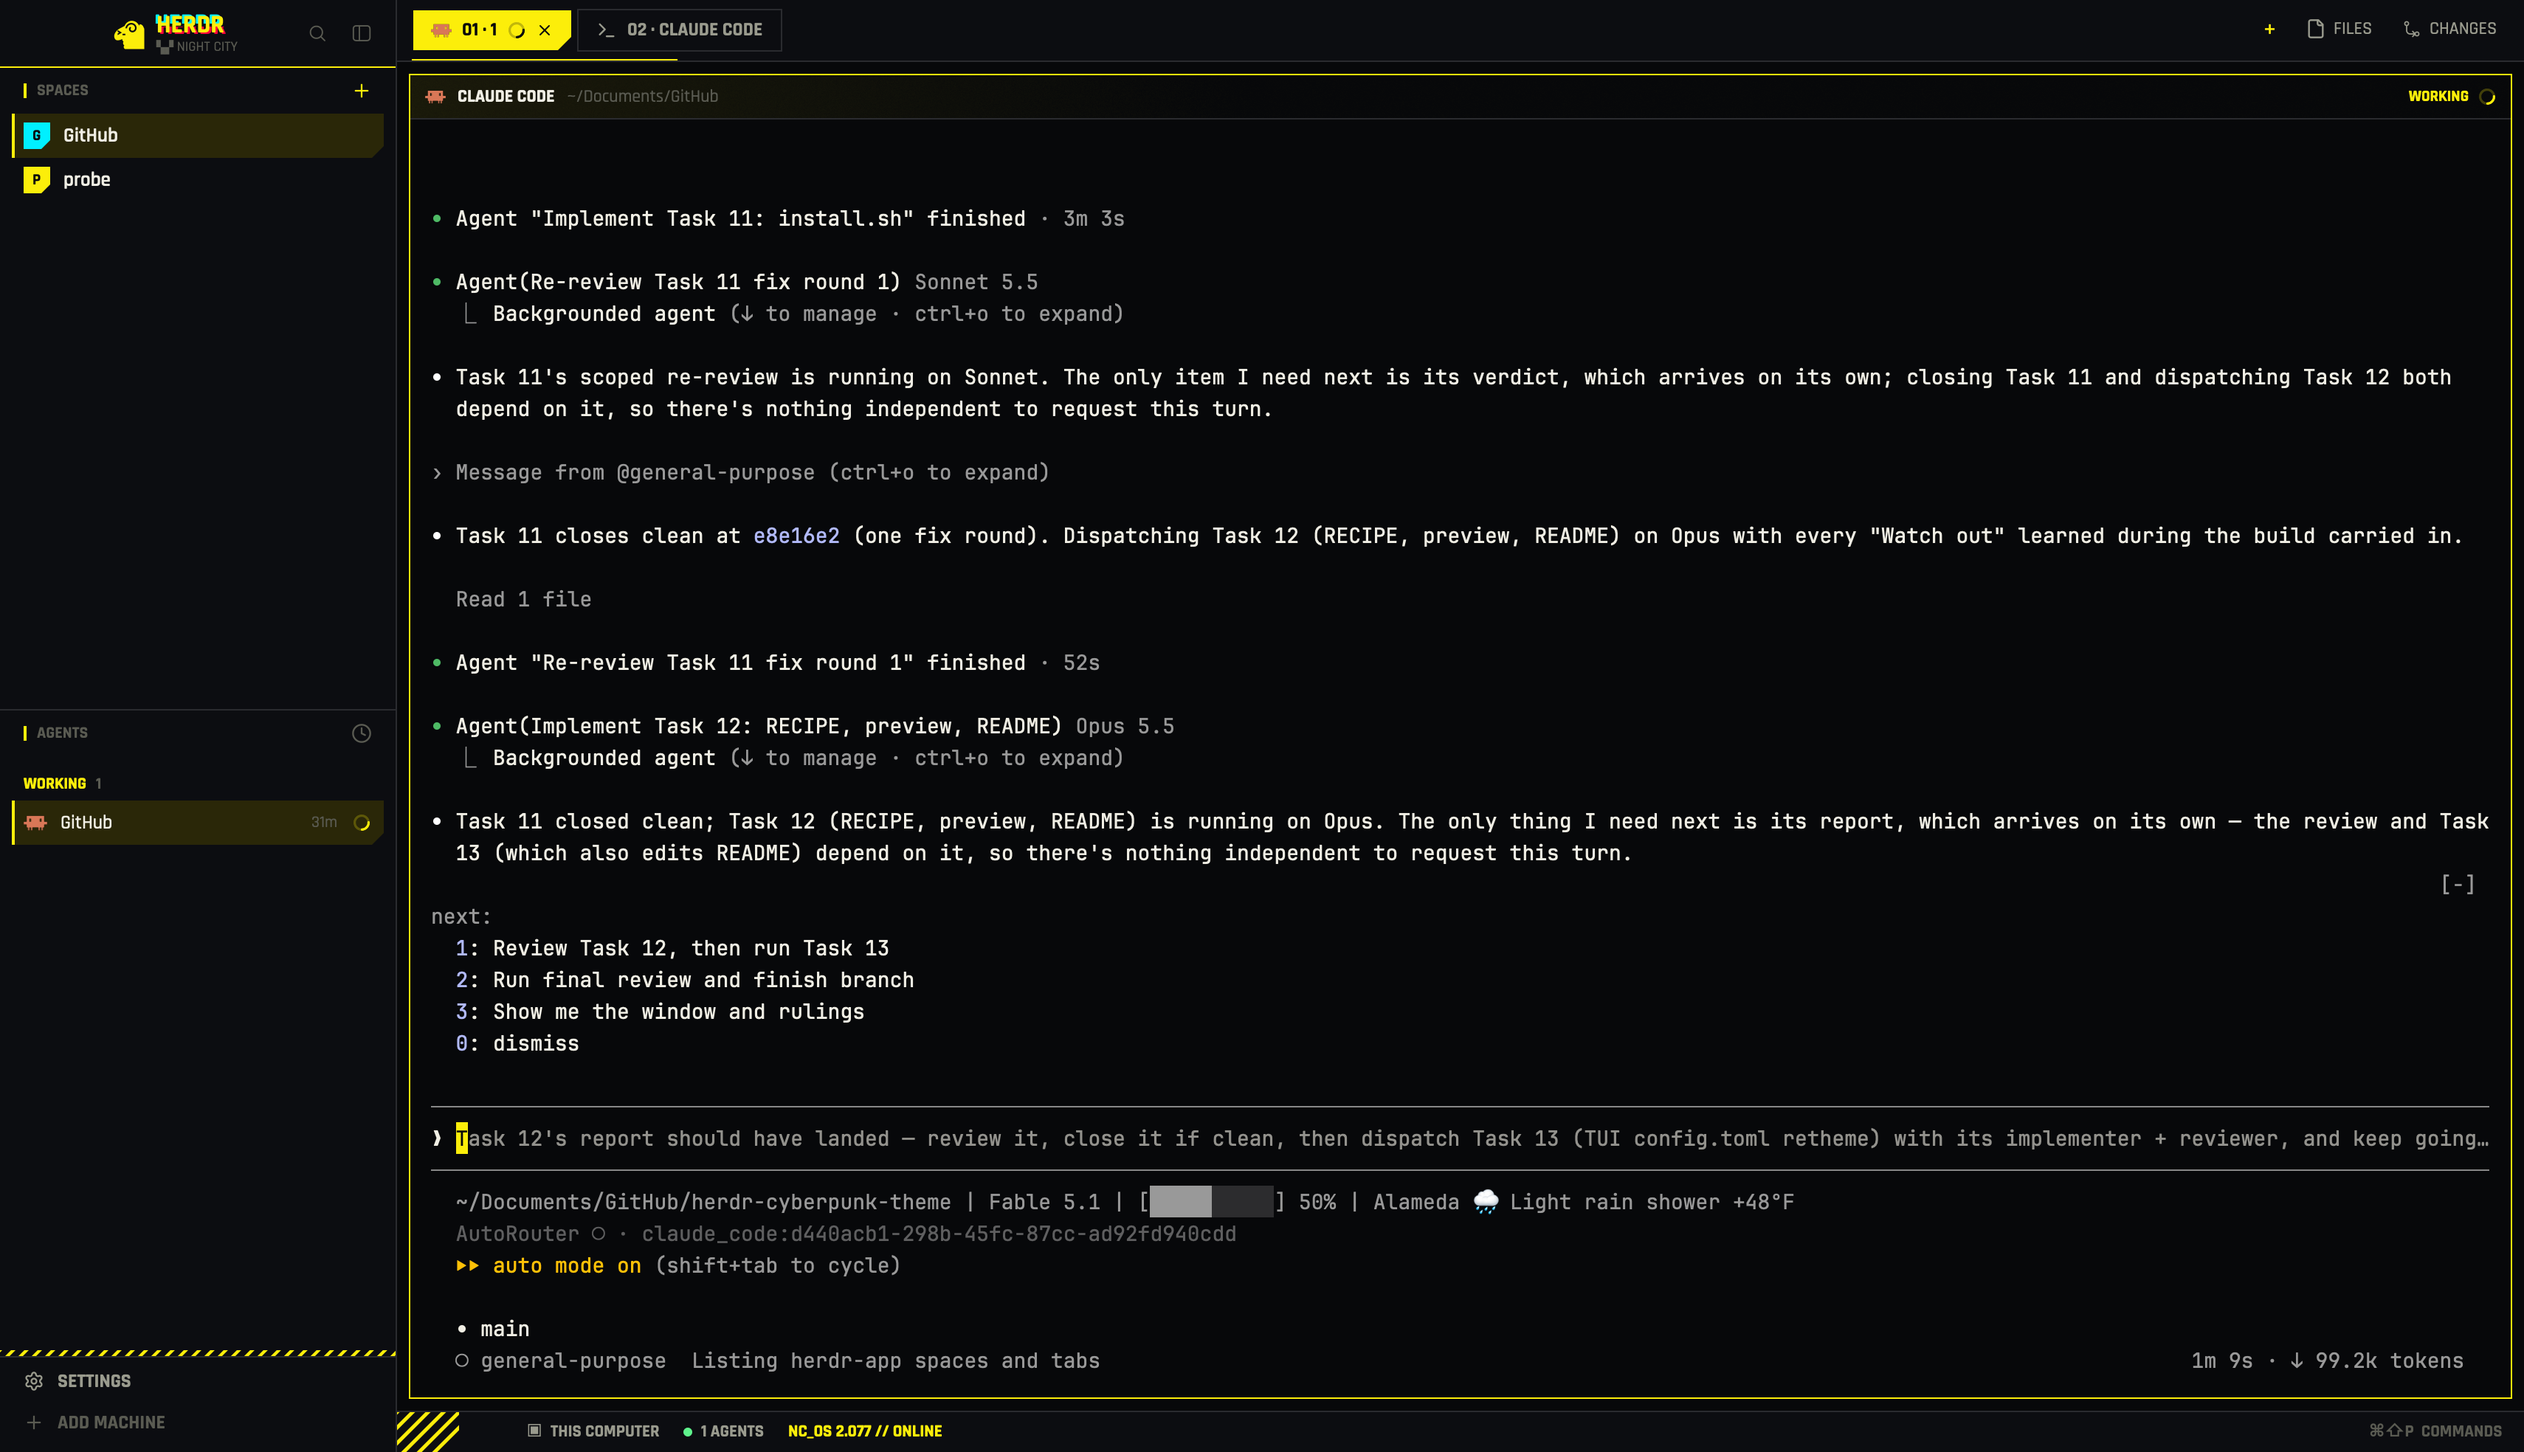
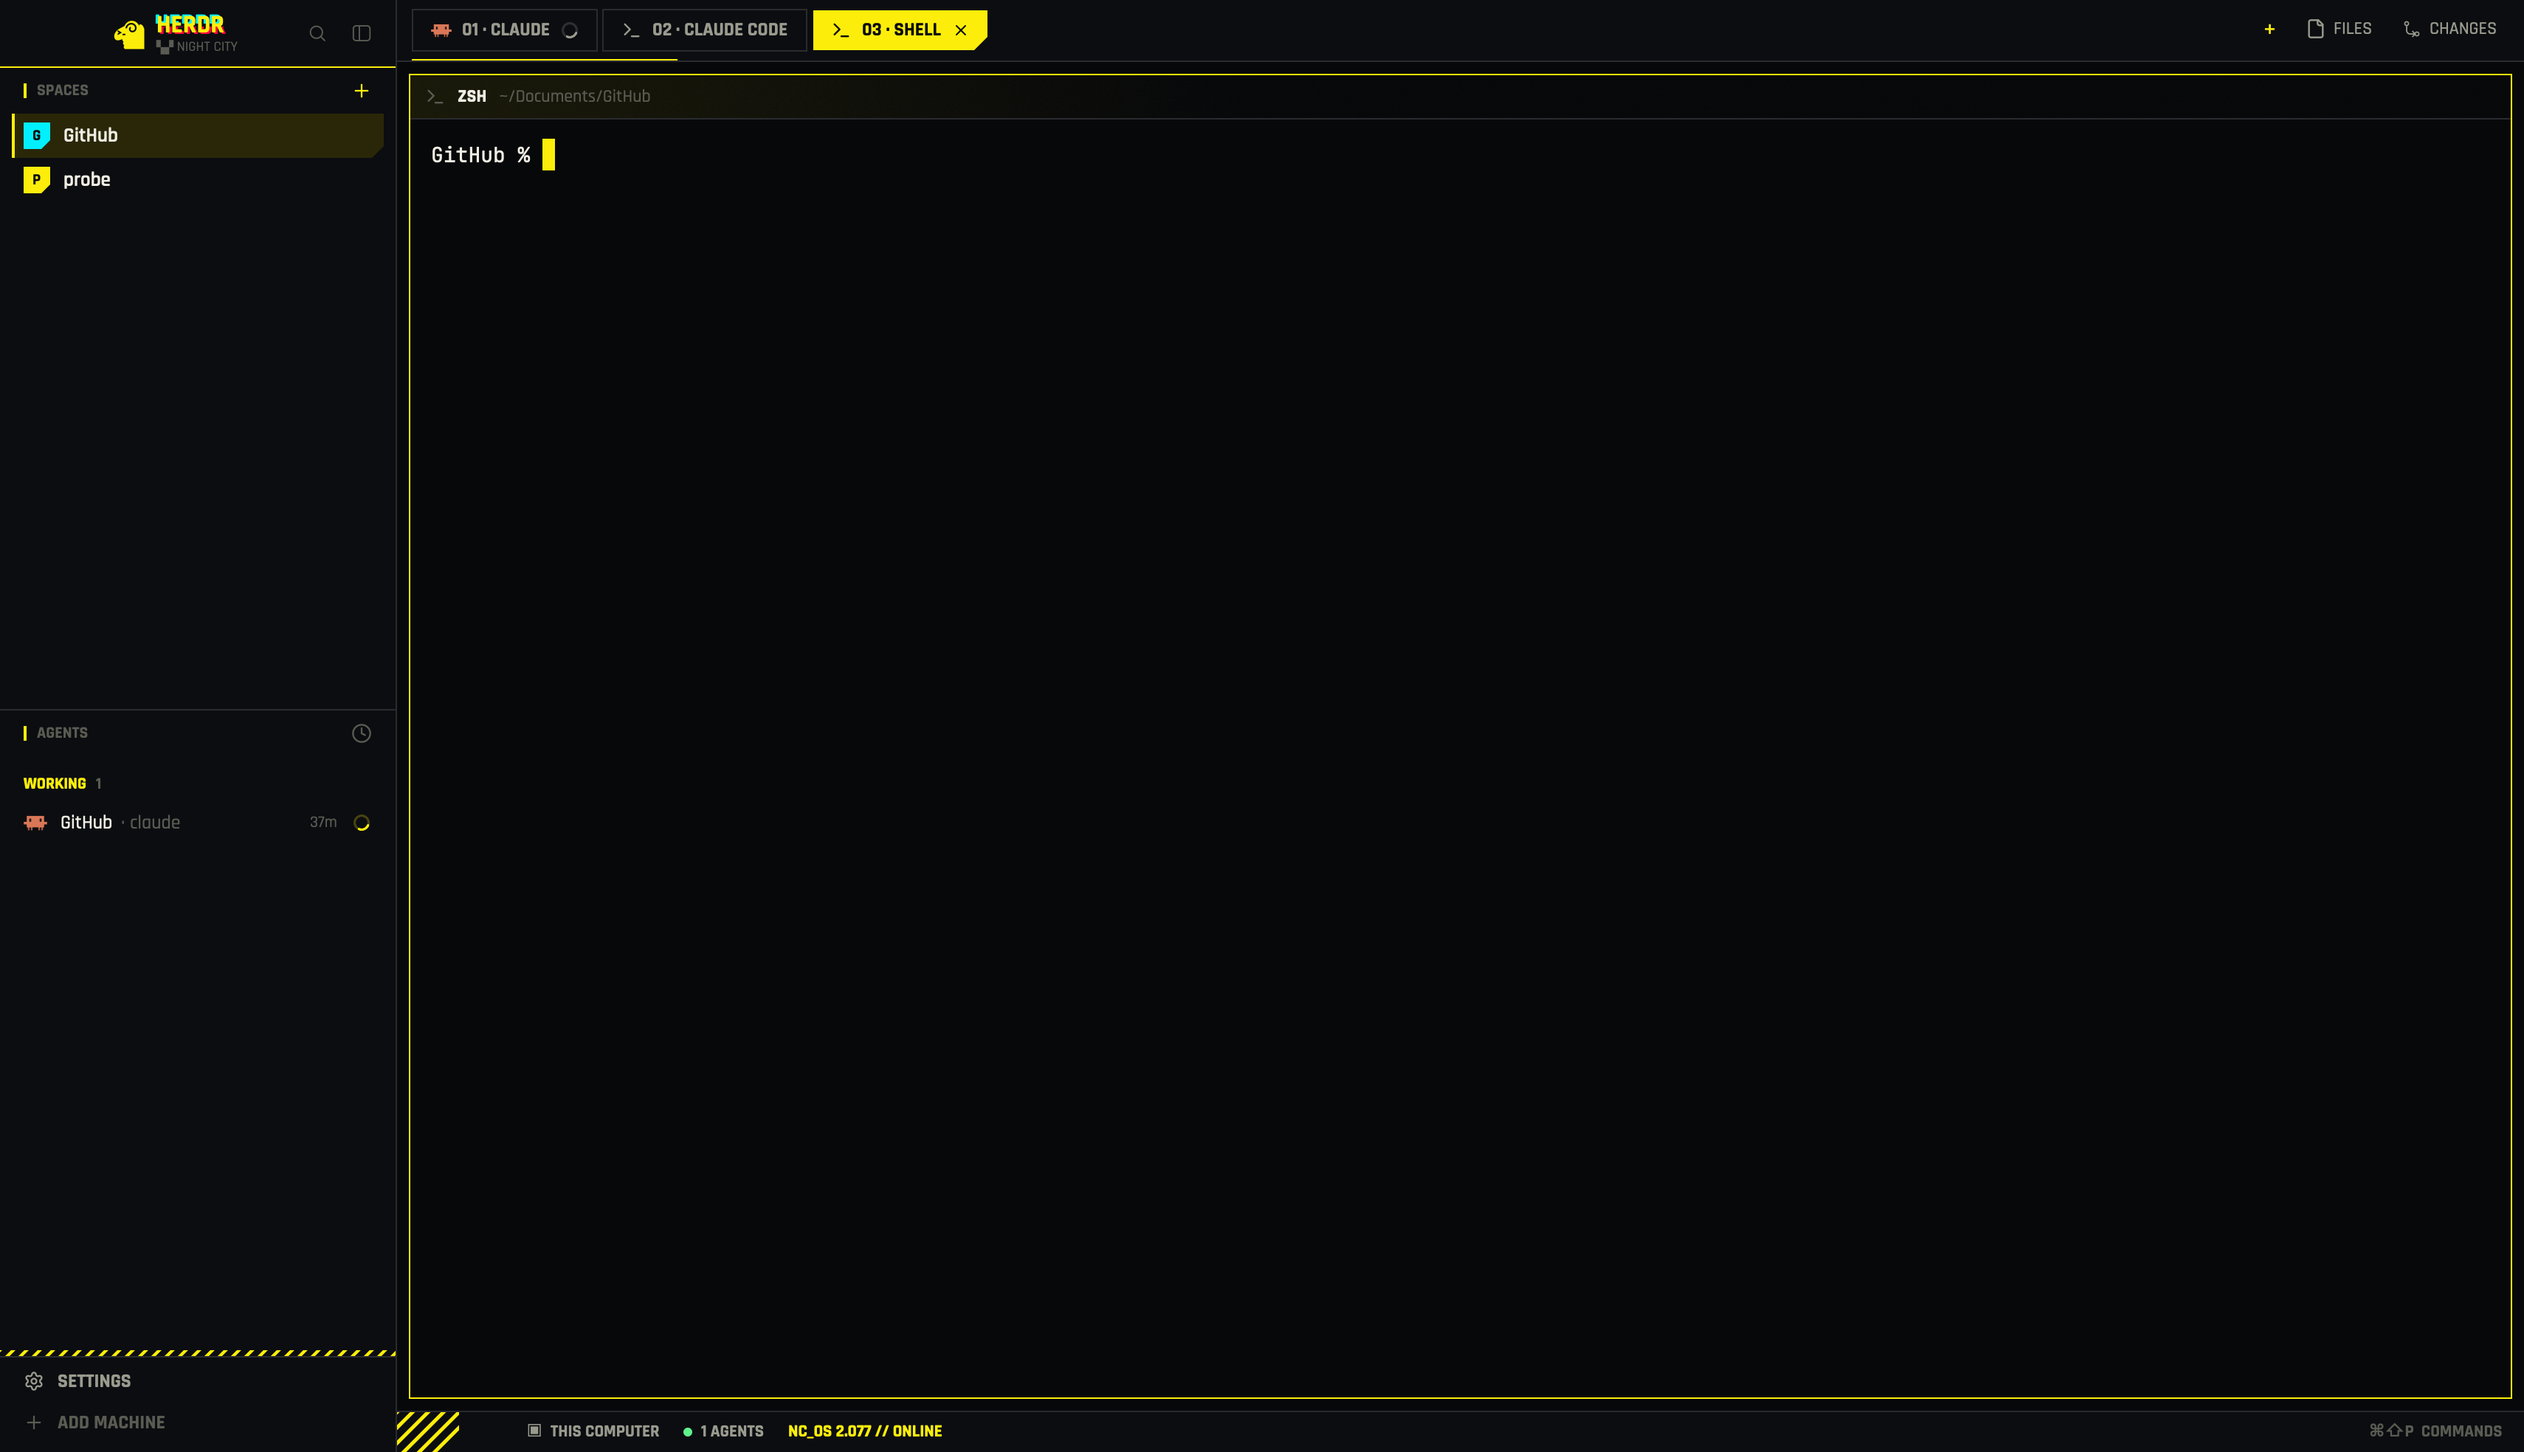
Reshoot Night City preview with a plain shell in front

diff --git a/app/RECIPE.md b/app/RECIPE.md
@@ -393,8 +393,8 @@ the rest: `nc-pane` split/zoom/close icons, `nc-tabs` Windows window icons,
   - olive active-space and focused-agent rows with the yellow left bar and a
     cut corner
   - a yellow active tab with black `01 · …` text and a cut corner
-  - a yellow-framed focused pane with the yellow-washed header and
-    `WORKING` plus a spinner
+  - a yellow-framed focused pane with the yellow-washed header, which reads
+    `WORKING` plus a spinner when the agent's pane is in front
   - hazard stripes at the status bar cap and above the footer
   - Rajdhani caps in all the chrome, with terminals in their own font
 - With a blocked agent, the red `NEEDS YOU` tag pulses in the agents list
